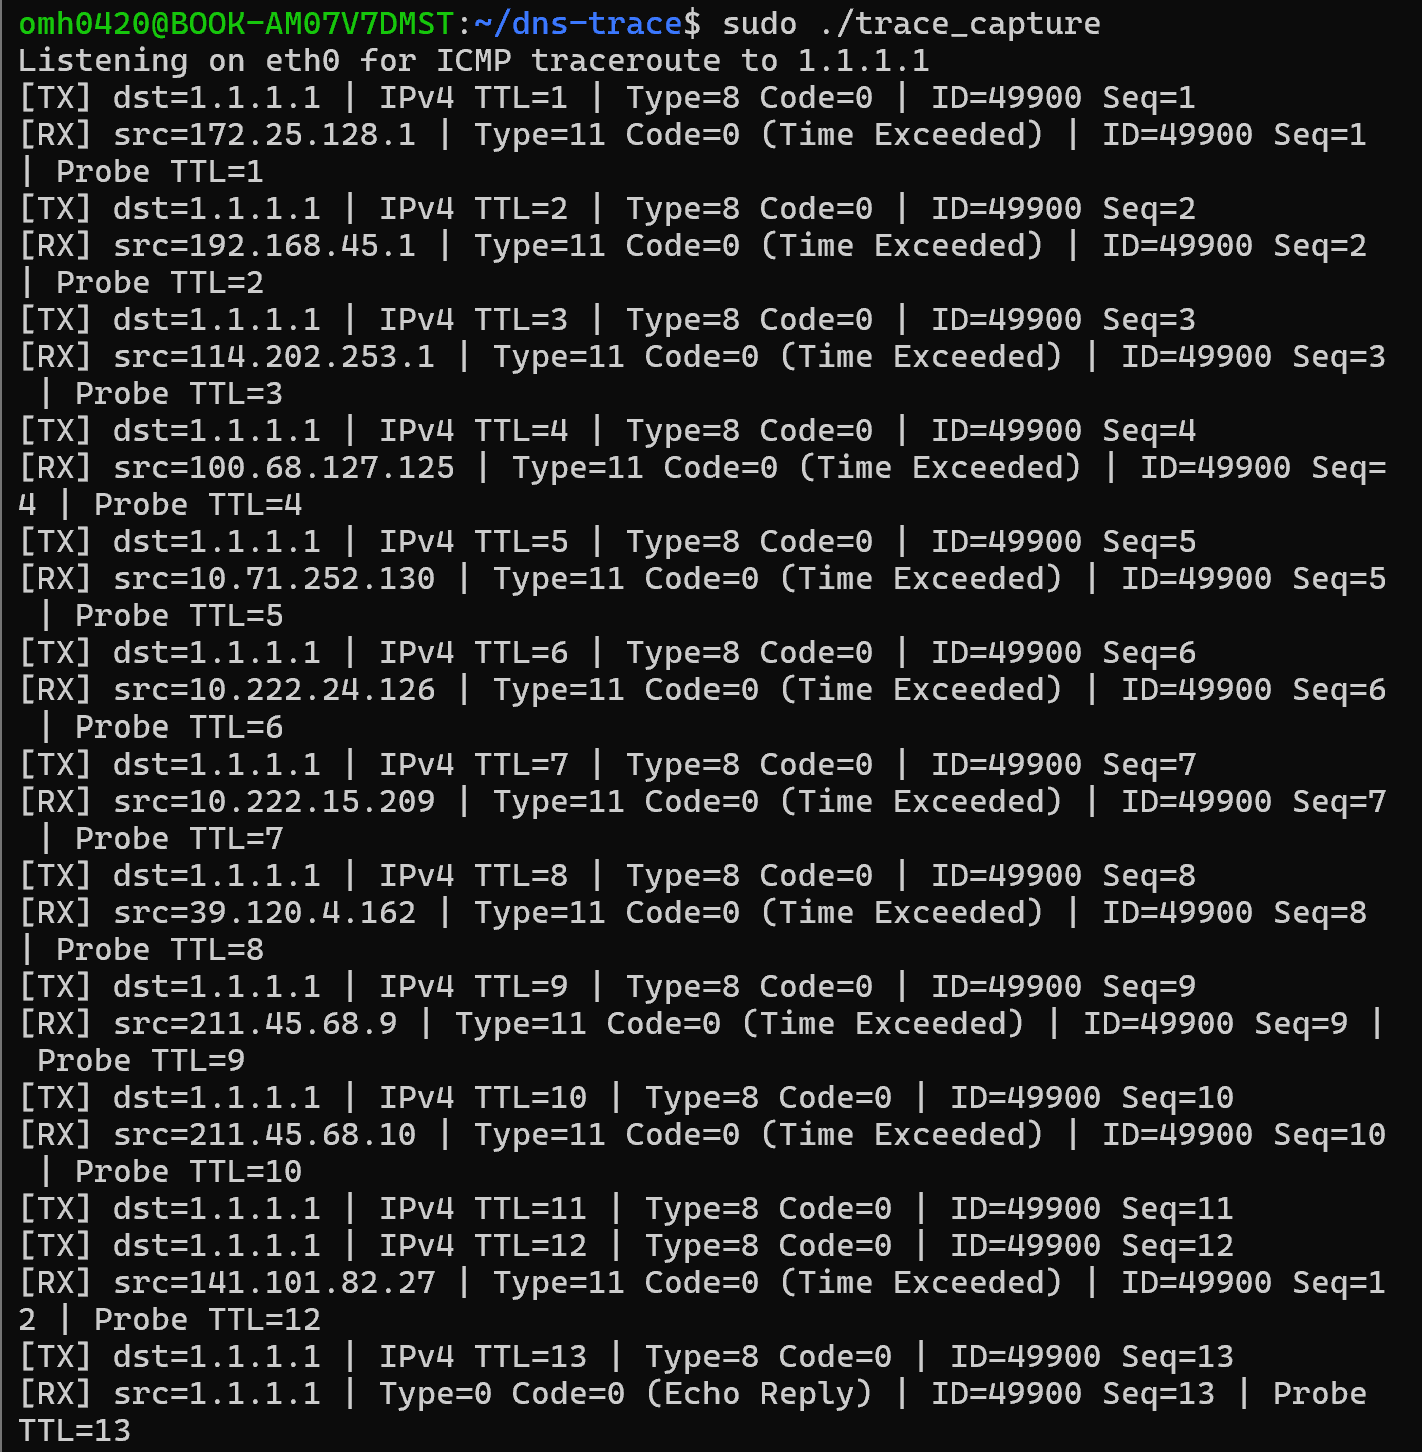
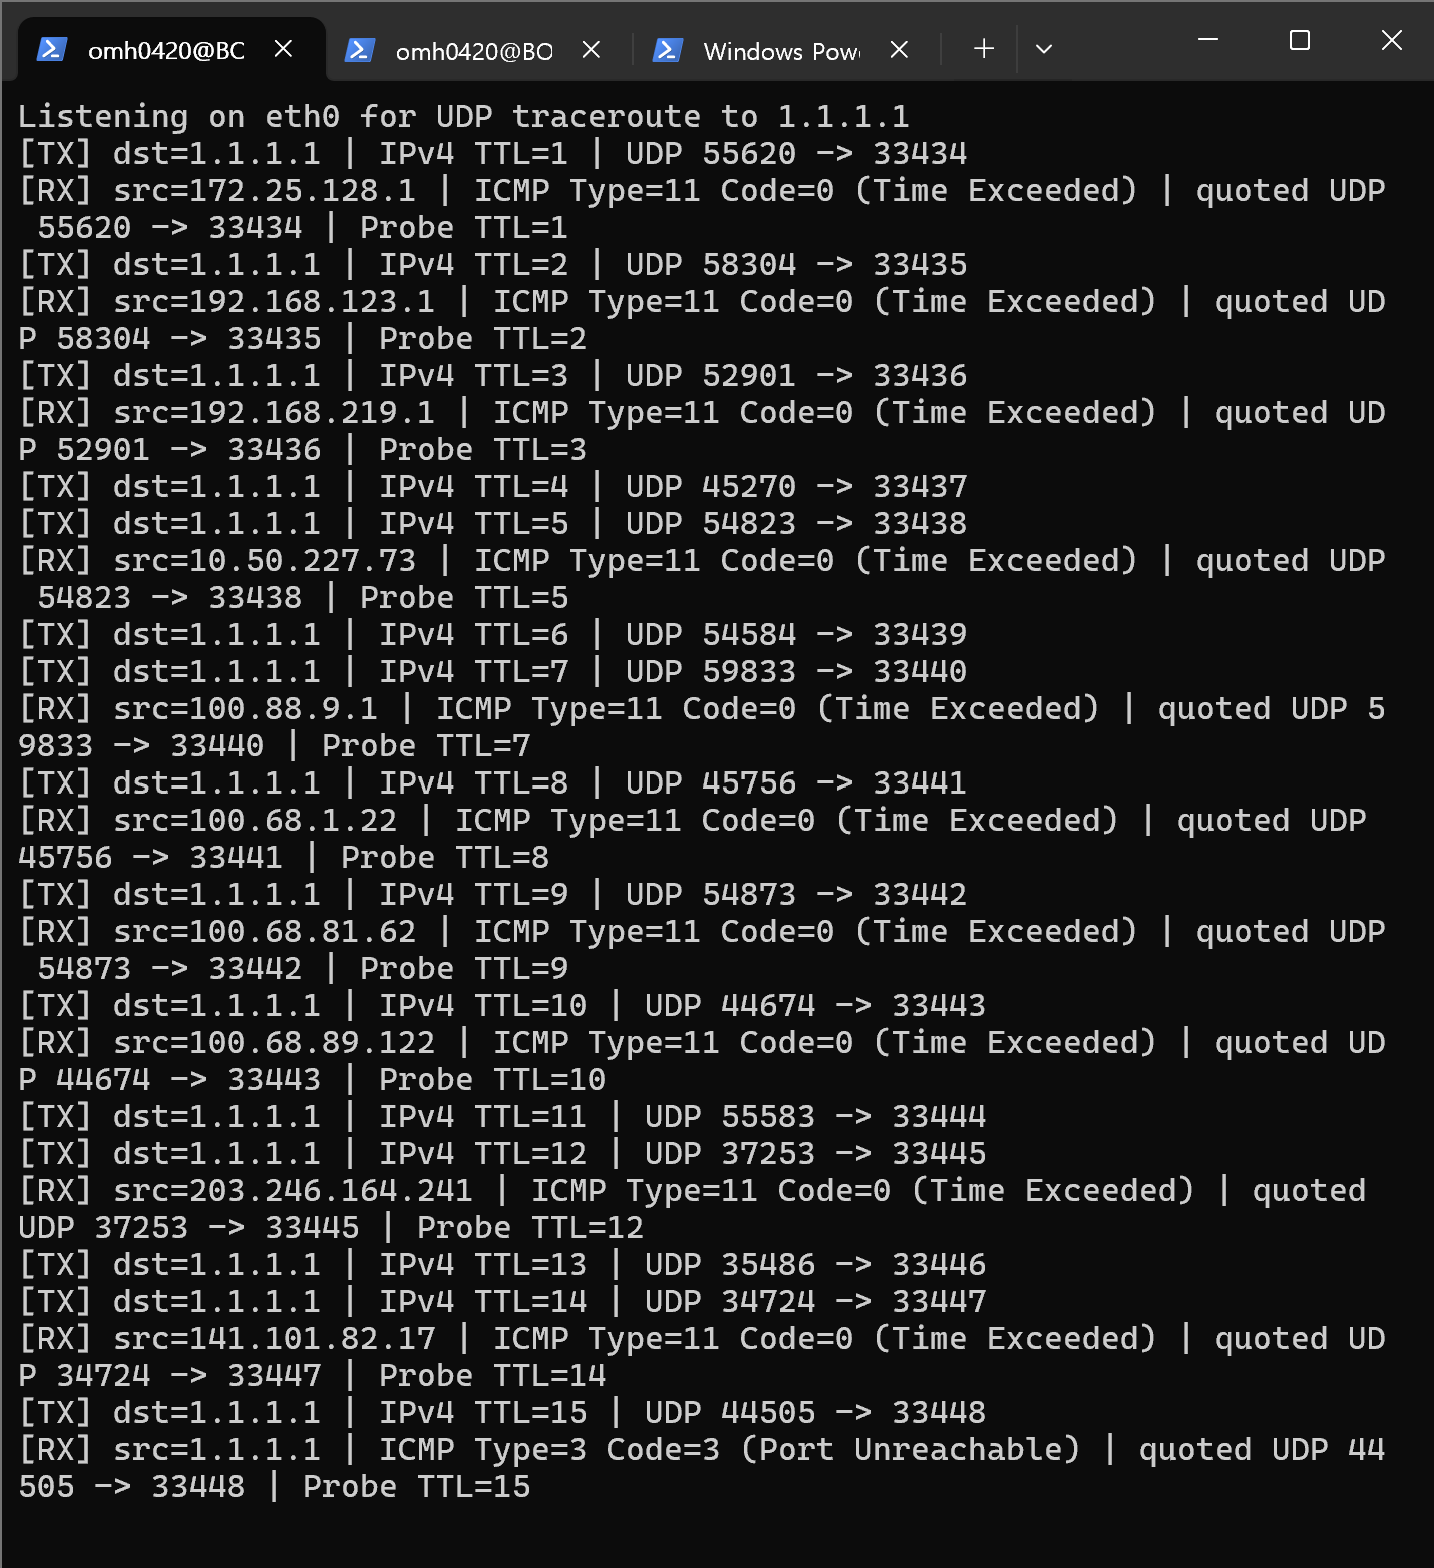
Refresh UDP traceroute experiment evidence

Changed region(s): [[0.0, 0.0, 1.0, 0.9917]]

diff --git a/Minho_DNS_Traceroute/README.md b/Minho_DNS_Traceroute/README.md
@@ -26,11 +26,18 @@ gcc -std=c11 -Wall -Wextra -Wpedantic -o trace_capture trace_capture.c
 sudo tcpdump -p -i eth0 -s 0 -w - '(udp and dst host 1.1.1.1 and dst portrange 33434-33534) or icmp' > trace-udp.pcap
 ```
 
-7쪽에는 TTL 1의 TX와 대응 RX, 목적지가 보낸 3/3과 대응 TX를 사용한다. Wireshark에서 송신 UDP 포트와 수신 ICMP 안의 원래 UDP 포트를 대조한다. 응답이 없는 홉은 실제 실행 결과대로 기록한다.
+### 재실험 결과
+
+| 송신 TTL | UDP 출발지 → 목적지 포트 | ICMP 응답 |
+| --- | --- | --- |
+| 1 | 55620 → 33434 | 첫 홉 172.25.128.1에서 Time Exceeded (Type 11, Code 0) |
+| 15 | 44505 → 33448 | 목적지 1.1.1.1에서 Port Unreachable (Type 3, Code 3) |
+
+Traceroute는 15번째 홉에서 목적지 1.1.1.1과 RTT 10.560 ms를 표시했다. Wireshark에서 `udp.srcport == 44505 && udp.dstport == 33448`을 적용하면 25번 UDP 송신과 26번 ICMP 응답을 볼 수 있다. ICMP 응답에 인용된 UDP 포트 쌍을 송신 패킷과 대조해 동일한 탐사에 대한 응답임을 확인했다. 저장소의 2·4·6번 이미지는 이 재실험의 프로그램 출력, 경로 목록, Wireshark 검증 화면이다.
 
 ## 기존 실험 결과 (DNS 및 ICMP Echo 방식)
 
-이하 Traceroute 설명·함수명·발표 문답과 기존 dns-trace.pcap은 이전 `-I` 실험 기록이다. UDP 방식 제출 자료는 새로 수집한다.
+이하 Traceroute 설명·함수명·발표 문답과 기존 dns-trace.pcap은 이전 `-I` 실험 기록이다. 위 2·4·6번 화면은 UDP 재실험 결과다.
 
 - DNS는 `1.1.1.1:53`에 `example.com`의 A 레코드를 질의했다. IPv4 주소와 UDP 포트, Transaction ID, QR, QNAME, QTYPE을 읽고 압축 이름과 A 레코드를 해석했다. 예시 ID `40568`(`0x9e78`)과 응답 주소 `104.20.23.154`, `172.66.147.243`이 `dig` 및 Wireshark에서 일치했다.
 - Traceroute는 `1.1.1.1`로 보낸 ICMP Echo Request의 IPv4 TTL을 읽고, 응답의 출발지 IP와 ICMP Type·Code를 분석했다. Echo ID와 Sequence로 탐색 패킷과 응답을 연결했다. 첫 요청은 `ID=49900 Seq=1`, `TTL=1`이었고, 첫 홉 `172.25.128.1`에서 Time Exceeded(Type 11, Code 0)가 돌아왔다. 목적지에서는 Echo Reply(Type 0, Code 0)를 확인했다.
@@ -122,7 +129,7 @@ DNS 프레임은 **이더넷 → IPv4 → UDP → DNS** 순으로 읽는다. Tra
 
 `example.com`은 DNS 메시지에서 길이 `7`과 `example`, 길이 `3`과 `com`, 종료값 `0`의 순서로 표현할 수 있다. 응답에서 같은 이름을 다시 쓸 때는 앞서 나온 이름의 위치를 가리키는 **압축 포인터**를 사용할 수 있다. 예를 들어 `c0 0c`는 DNS 메시지 시작을 기준으로 12바이트 떨어진 위치를 가리킨다. 이름을 읽는 동안 `cursor`는 현재 읽는 위치, `resume`은 포인터 처리 후 원래 레코드에서 이어 읽을 위치, `limit`은 탐색 범위의 상한을 뜻한다. 포인터를 따라갈 때마다 상한을 앞당겨 순환 참조를 막는다. 질문에서는 이름 뒤의 QTYPE·QCLASS로, 응답에서는 이름 뒤의 TYPE·CLASS·TTL·RDLENGTH를 거쳐 실제 레코드 데이터로 이동한다.
 
-### 4. Traceroute 실험
+### 4. 이전 ICMP Echo 방식 Traceroute 실험
 
 **Traceroute는 탐색 패킷의 IPv4 TTL을 조금씩 높여 가며 각 단계에서 응답한 장비를 확인한다.** IPv4 TTL은 라우터를 지날 때 일반적으로 1씩 감소한다. 전달 도중 TTL이 소진되면 라우터가 ICMP Time Exceeded를 돌려보낼 수 있다. 탐색 패킷이 목적지에 도착하면 목적지가 ICMP Echo Reply로 응답할 수 있다.
 
@@ -160,7 +167,7 @@ Time Exceeded에는 **라우터가 새로 만든 바깥 IPv4·ICMP 헤더**와 *
 
 두 프로그램 모두 수신한 바이트를 읽기 전에 필요한 길이가 있는지 확인한다. IPv4 헤더는 길이 필드(IHL)를 읽어 다음 헤더의 시작을 계산한다. 인터넷 헤더의 2바이트 값은 상위 바이트가 먼저 오므로, 예를 들어 DNS ID `9e 78`은 `0x9e78`, 즉 십진수 `40568`로 해석한다.
 
-### 5. Wireshark로 캡처 파일 확인하기
+### 5. 기존 DNS·ICMP Echo 캡처 확인하기
 
 [캡처 파일 열기](dns-trace.pcap)
 
